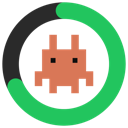
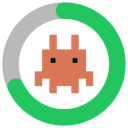
v0.3.2 — badge legibility on light & dark toolbars
- Force white badge text via chrome.action.setBadgeTextColor (Chrome was
  auto-picking black on our green, muddy at ~9px).
- Deepen badge backgrounds (green-700 / amber-700 / red-700 / zinc-600) so
  white text has real contrast on both toolbar themes; popup palette
  unchanged — same hue family, darker tone, comment explains the split.
- Icon ring track switched from #2a2a2a to 55%-opacity mid-grey so the
  empty portion of the gauge is visible on dark toolbars; all icon sizes
  and the store icon regenerated.

Changed region(s): [[0.0, 0.0, 0.5, 0.6875]]

diff --git a/background.js b/background.js
@@ -154,10 +154,15 @@ function extractBuckets(usage) {
 
 // ─── Badge rendering ────────────────────────────────────────────────────────
 
-const COLOR_GREEN = "#22c55e"; // matches popup --green
-const COLOR_AMBER = "#F59E0B";
-const COLOR_RED = "#EF4444";
-const COLOR_GREY = "#666666";
+// Badge palette: deeper tones than the popup's (--green #22c55e etc.) on
+// purpose — the badge text is forced white via setBadgeTextColor, and white
+// needs a darker background to stay readable at ~9px on both light and dark
+// toolbars. Same hue family as the popup, so the traffic-light meaning holds.
+const COLOR_GREEN = "#15803D";
+const COLOR_AMBER = "#B45309";
+const COLOR_RED = "#B91C1C";
+const COLOR_GREY = "#52525B";
+const BADGE_TEXT = "#FFFFFF";
 
 function computeBadge(state) {
   const session = state.buckets.find((b) => b.key === "five_hour");
@@ -226,6 +231,13 @@ async function refreshBadge() {
   const { text, color, title } = computeBadge(state);
   await chrome.action.setBadgeText({ text });
   await chrome.action.setBadgeBackgroundColor({ color });
+  try {
+    // Chrome 110+; without this Chrome auto-picks black on our greens,
+    // which is barely readable at badge size.
+    await chrome.action.setBadgeTextColor({ color: BADGE_TEXT });
+  } catch {
+    // Very old Chrome — auto text color is the graceful fallback.
+  }
   await chrome.action.setTitle({ title });
 }
 
